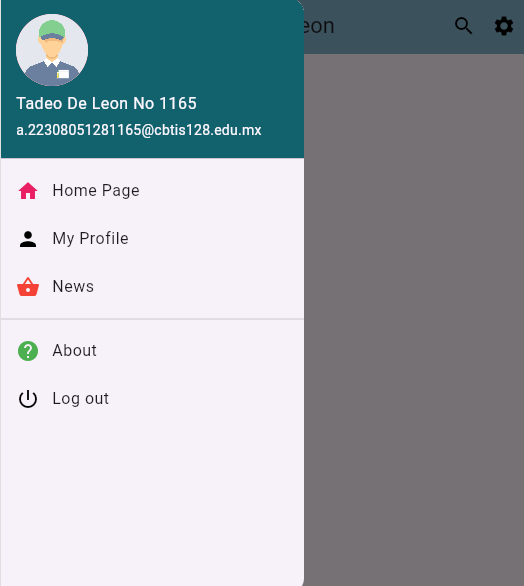
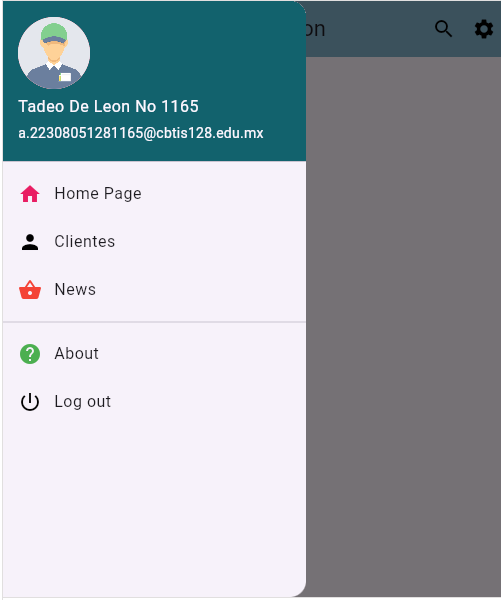
Terminado 2

Changed region(s): [[0.0, 0.0, 1.0, 1.0], [0.9281, 0.0307, 0.988, 0.0614], [0.8683, 0.0307, 0.8982, 0.0614]]

diff --git a/lib/profile.dart b/lib/profile.dart
@@ -1,17 +1,159 @@
 import 'package:flutter/material.dart';
+import 'details.dart';
 
-class Profile extends StatelessWidget {
-  const Profile({super.key});
+class MyForm extends StatefulWidget {
+  const MyForm({super.key});
+
+  @override
+  State<MyForm> createState() => _MyFormState();
+}
+
+class _MyFormState extends State<MyForm> {
+  final _clienteIdController = TextEditingController();
+  final _nombreController = TextEditingController();
+  final _correoController = TextEditingController();
+  final _telefonoController = TextEditingController();
+  final _direccionController = TextEditingController();
+  final _fechaRegistroController = TextEditingController();
+  final _preferenciasController = TextEditingController();
+
+  @override
+  void dispose() {
+    _clienteIdController.dispose();
+    _nombreController.dispose();
+    _correoController.dispose();
+    _telefonoController.dispose();
+    _direccionController.dispose();
+    _fechaRegistroController.dispose();
+    _preferenciasController.dispose();
+    super.dispose();
+  }
 
   @override
   Widget build(BuildContext context) {
+    
     return Scaffold(
       appBar: AppBar(
-        title: Text("Profile Page"),
-        backgroundColor: Colors.red,
+        backgroundColor: Colors.deepPurple.shade300,
+        title: const Text("Formulario Cliente"),
+        centerTitle: true,
       ),
-      body: Center(
-        child: Text("Profile"),
+      body: Container(
+        padding: const EdgeInsets.all(20.0),
+        child: ListView(
+          children: [
+            MyTextField(
+              myController: _clienteIdController,
+              fieldName: "Cliente ID",
+              myIcon: Icons.perm_identity,
+              prefixIconColor: Colors.deepPurple.shade300,
+            ),
+            const SizedBox(height: 10),
+            MyTextField(
+              myController: _nombreController,
+              fieldName: "Nombre",
+              myIcon: Icons.person,
+              prefixIconColor: Colors.deepPurple.shade300,
+            ),
+            const SizedBox(height: 10),
+            MyTextField(
+              myController: _correoController,
+              fieldName: "Correo Electrónico",
+              myIcon: Icons.email,
+              prefixIconColor: Colors.deepPurple.shade300,
+            ),
+            const SizedBox(height: 10),
+            MyTextField(
+              myController: _telefonoController,
+              fieldName: "Teléfono",
+              myIcon: Icons.phone,
+              prefixIconColor: Colors.deepPurple.shade300,
+            ),
+            const SizedBox(height: 10),
+            MyTextField(
+              myController: _direccionController,
+              fieldName: "Dirección",
+              myIcon: Icons.home,
+              prefixIconColor: Colors.deepPurple.shade300,
+            ),
+            const SizedBox(height: 10),
+            MyTextField(
+              myController: _fechaRegistroController,
+              fieldName: "Fecha de Registro",
+              myIcon: Icons.calendar_today,
+              prefixIconColor: Colors.deepPurple.shade300,
+            ),
+            const SizedBox(height: 10),
+            MyTextField(
+              myController: _preferenciasController,
+              fieldName: "Preferencias",
+              myIcon: Icons.favorite,
+              prefixIconColor: Colors.deepPurple.shade300,
+            ),
+            const SizedBox(height: 20),
+            myBtn(context),
+          ],
+        ),
+      ),
+    );
+  }
+
+  OutlinedButton myBtn(BuildContext context) {
+    return OutlinedButton(
+      style: OutlinedButton.styleFrom(minimumSize: const Size(200, 50)),
+      onPressed: () {
+        Navigator.push(
+          context,
+          MaterialPageRoute(
+            builder: (context) => Details(
+              clienteId: _clienteIdController.text,
+              nombre: _nombreController.text,
+              correo: _correoController.text,
+              telefono: _telefonoController.text,
+              direccion: _direccionController.text,
+              fechaRegistro: _fechaRegistroController.text,
+              preferencias: _preferenciasController.text,
+            ),
+          ),
+        );
+      },
+      child: Text(
+        "Enviar".toUpperCase(),
+        style: const TextStyle(
+          fontWeight: FontWeight.bold,
+          color: Colors.deepPurple,
+        ),
+      ),
+    );
+  }
+}
+
+class MyTextField extends StatelessWidget {
+  const MyTextField({
+    super.key,
+    required this.fieldName,
+    required this.myController,
+    this.myIcon = Icons.verified_user_outlined,
+    this.prefixIconColor = Colors.blueAccent,
+  });
+
+  final TextEditingController myController;
+  final String fieldName;
+  final IconData myIcon;
+  final Color prefixIconColor;
+
+  @override
+  Widget build(BuildContext context) {
+    return TextFormField(
+      controller: myController,
+      decoration: InputDecoration(
+        labelText: fieldName,
+        prefixIcon: Icon(myIcon, color: prefixIconColor),
+        border: const OutlineInputBorder(),
+        focusedBorder: OutlineInputBorder(
+          borderSide: BorderSide(color: Colors.deepPurple.shade300),
+        ),
+        labelStyle: const TextStyle(color: Colors.deepPurple),
       ),
     );
   }

diff --git a/lib/details.dart b/lib/details.dart
@@ -1,0 +1,74 @@
+import 'package:flutter/material.dart';
+
+class Details extends StatelessWidget {
+  const Details({
+    super.key,
+    required this.clienteId,
+    required this.nombre,
+    required this.correo,
+    required this.telefono,
+    required this.direccion,
+    required this.fechaRegistro,
+    required this.preferencias,
+  });
+
+  final String clienteId;
+  final String nombre;
+  final String correo;
+  final String telefono;
+  final String direccion;
+  final String fechaRegistro;
+  final String preferencias;
+
+  @override
+  Widget build(BuildContext context) {
+    return Scaffold(
+      appBar: AppBar(
+        backgroundColor: Colors.deepPurple.shade300,
+        centerTitle: true,
+        title: const Text("Información"),
+        leading: IconButton(
+          onPressed: () {
+            Navigator.pop(context);
+          },
+          icon: const Icon(Icons.arrow_back),
+        ),
+      ),
+      body: Container(
+        padding: const EdgeInsets.all(4.0),
+        child: ListView(
+          children: [
+            ListTile(
+              shape: RoundedRectangleBorder(
+                side: BorderSide(width: 1.0, color: Colors.grey.shade300),
+              ),
+              leading: IconButton(
+                icon: const Icon(Icons.person, color: Colors.deepPurple),
+                onPressed: () {},
+              ),
+              title: Text(
+                nombre,
+                style: const TextStyle(
+                  fontWeight: FontWeight.bold,
+                  fontSize: 18.0,
+                ),
+              ),
+              subtitle: Column(
+                crossAxisAlignment: CrossAxisAlignment.start,
+                children: [
+                  Text("Cliente ID: $clienteId"),
+                  Text("Correo: $correo"),
+                  Text("Teléfono: $telefono"),
+                  Text("Dirección: $direccion"),
+                  Text("Fecha de Registro: $fechaRegistro"),
+                  Text("Preferencias: $preferencias"),
+                ],
+              ),
+              trailing: const Icon(Icons.delete, color: Colors.grey),
+            ),
+          ],
+        ),
+      ),
+    );
+  }
+}

diff --git a/lib/homepage.dart b/lib/homepage.dart
@@ -64,13 +64,12 @@ class HomePage extends StatelessWidget {
               child: ListTile(
                 onTap: (){Navigator.popAndPushNamed(context, "/profile");},
                 leading: Icon(Icons.person, color: Colors.black),
-                title: Text("My Profile"),
+                title: Text("Clientes"),
               ),
             ),
             InkWell(
               onTap: null,
               child: ListTile(
-                onTap: (){Navigator.pushNamed(context, "/news");},
                 leading: Icon(Icons.shopping_basket, color: Colors.red),
                 title: Text("News"),
               ),

diff --git a/lib/main.dart b/lib/main.dart
@@ -1,7 +1,6 @@
 import 'package:flutter/material.dart';
 import 'package:myapp/homepage.dart';
 import 'package:myapp/profile.dart';
-import 'package:myapp/news.dart';
 
 void main() {
   runApp(const MyApp());
@@ -17,8 +16,7 @@ class MyApp extends StatelessWidget {
       home: HomePage(),
       routes: {
         "/home": (context) => HomePage(),
-        "/profile": (context) => Profile(),
-        "/news": (context) => News(),
+        "/profile": (context) => MyForm(),
       },
     );
   }

diff --git a/z_recursos/leeme.md b/z_recursos/leeme.md
@@ -4,8 +4,8 @@
 ## Drawer Header terminado:
 ![alt text](image-1.png)
 
-## Profile placeholder:
+## Clientes Formulario:
 ![alt text](image-2.png)
 
-## News placeholder:
+## Cliente detalles:
 ![alt text](image-3.png)
